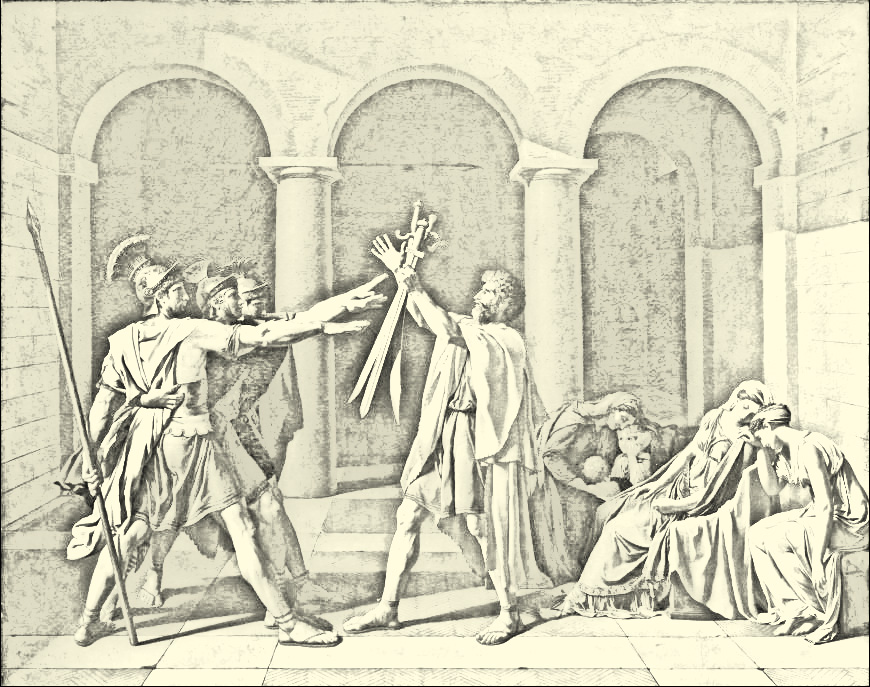
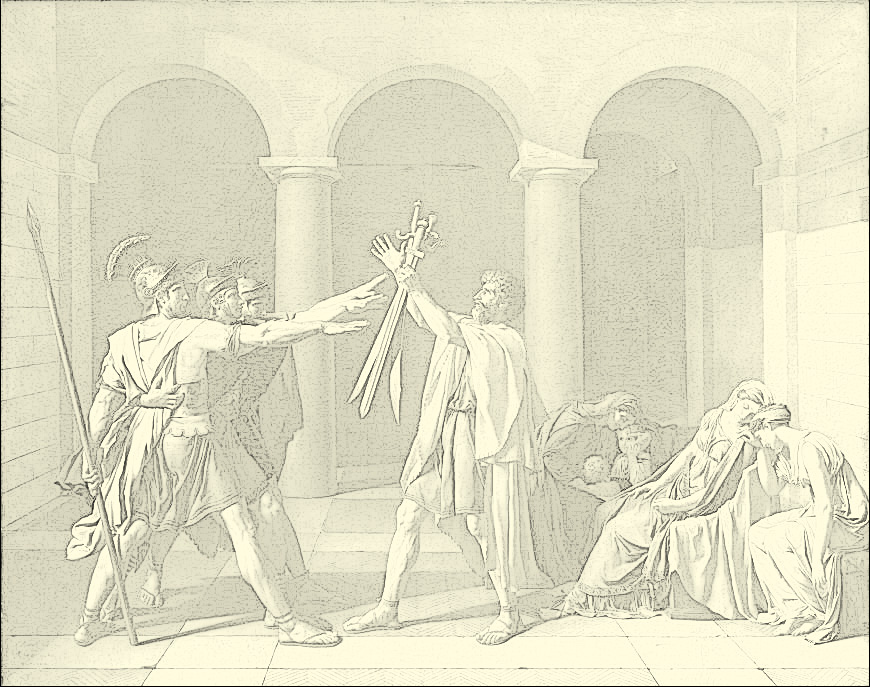
classisicism done

diff --git a/project-3/france.html b/project-3/france.html
@@ -48,7 +48,43 @@
         <!-- <button id="closeButton">Close</button> -->
         <div class="img-container">
             <div class="france img-div">
-                <img id="france-6" class="painting painting-vertical" src="./img/rococo-clear.jpg" alt="france-3">
+                <img id="classic" class="painting painting-vertical" src="./img/classic-sketch.jpg" alt="france-3">
+
+                <div class="plaque">
+                    <h3 class="painting-title">Portrait of Louis XIV in Coronation Robes</h3>
+                    <p>Hyacinthe Rigaud</p>
+                    <button onclick="openQuiz('classic-content')" class="test-trigger">
+                        <i class="fa-solid fa-eye"></i> Reveal</button>
+
+                </div>
+            </div>
+
+            <div class="info-plaque-container" id="classic-plaque">
+
+                <div class="info-plaque">
+
+                    <h4>
+                        French Classicism
+                    </h4>
+
+                    <p class="plaque-text">
+                        Mid 1600s - Early 1700s
+                    </p>
+
+                    <p class="plaque-text">
+                        Much like the rest of Europe, French Classicism was deeply influenced by the principles of order and reason derived from ancient Greek and Roman art.
+                    </p>
+
+                    <p class="plaque-text">
+                        However, the French Classicism period was unique compared to the rest of Europe because the arts were heavily utilized to glorify King Louis XIV, the Sun King. Under his rule, France saw the centralization of power, the establishment of absolute monarchy, and the consolidation of French cultural influence in Europe.
+                    </p>
+
+                    <p class="plaque-text">
+                        Another notable aspect of this time frame was the French Salons, a social gathering where a guests discussed not only art, but also literature, philosophy, music, and politics. The democratization of ideas set the roots for the Age of Enlightment, and would set up France as an intellectual powerhouse in Europe.
+                    </p>
+
+                </div>
+
             </div>
 
             <div class="france img-div">
@@ -69,7 +105,7 @@
                 <div class="info-plaque">
 
                     <h4>
-                        The Rococo Period
+                        Rococo
                     </h4>
 
                     <p class="plaque-text">
@@ -77,8 +113,8 @@
                     </p>
 
                     <p class="plaque-text">
-                        The French Rococo period emerged after the Baroque era, known for its ornate and playful
-                        aesthetic, mirroring France's period of peace and prosperity.
+                        The Rococo period emerged as a reponse to the Classicism era, known for its ornate and playful
+                        aesthetic compared to Classicism's focus on reason, mirroring France's frivolous spending by the aristocracy. 
                     </p>
 
                     <p class="plaque-text">
@@ -86,8 +122,7 @@
                         This era revolved around the aristocracy, who moved from Versailles to Paris, embracing leisure
                         and indulging in romantic intrigues, creating a culture of luxury and excess. This contrasted
                         sharply with the majority of French society, as the aristocracy, a small fraction of the
-                        population, owned 90% the country's wealth. Resentment from the common people grew, sowing the
-                        seeds for a revolution.
+                        population, owned 90% the country's wealth. 
 
                     </p>
 
@@ -108,7 +143,8 @@
                 <div class="plaque">
                     <h3>Oath of the Horatii</h3>
                     <p>Jacques-Louis David</p>
-                    <button class="read">Read More</button>
+                    <button onclick="openQuiz('neo-content')" class="test-trigger">
+                        <i class="fa-solid fa-eye"></i> Reveal</button>
 
                 </div>
 
@@ -163,7 +199,7 @@
             <!-- <div class="">
 
             </div> -->
-            <button class="tablinks" onclick="openQuestion('classic-content')">Q1. Neoclassicism</button>
+            <button class="tablinks" onclick="openQuestion('classic-content')">Q1. Classicism</button>
             <button class="tablinks" onclick="openQuestion('rococo-content')">Q2. Rococo</button>
             <button class="tablinks" onclick="openQuestion('neo-content')">Q3. Neoclassicism</button>
             <button class="tablinks" onclick="openQuestion('roman-content')">Q4. Romanticism</button>
@@ -178,29 +214,30 @@
 
                 <h5 class="caption">Classicism</h5>
 
-                <h3 class="fra-question">Classicism Question</h3>
+                <h3 class="fra-question">
+                    Although similar to other European countries, how did French Classicism differ from the rest of Europe?</h3>
 
                 <div class="fra-question-options">
 
                     <!-- A -->
                     <div class="q-a">
-                        <input type="radio" id="classic-a" name="classic" value="flase" />
-                        <label for="classic-a" class="question">A. </label>
+                        <input type="radio" id="classic-a" name="classic" value="false" />
+                        <label for="classic-a" class="question">A. By promoting artistic freedom and individual expression.</label>
                     </div>
                     <!-- B -->
                     <div class="q-b">
                         <input type="radio" id="classic-b" name="classic" value="true" />
-                        <label for="classic-b" class="question">B. </label>
+                        <label for="classic-b" class="question">B. By using the principles of order and reason to glorify King Louis XIV.</label>
                     </div>
                     <!-- C -->
                     <div class="q-c">
                         <input type="radio" id="classic-c" name="classic" value="false" />
-                        <label for="classic-c" class="question">C. </label>
+                        <label for="classic-c" class="question">C. By specifically celebrating France's military involvement and accomplishments throughout Europe. </label>
                     </div>
                     <!-- D -->
                     <div class="q-d">
                         <input type="radio" id="classic-d" name="classic" value="false" />
-                        <label for="classic-d" class="question">D. </label>
+                        <label for="classic-d" class="question">D. By pionering Enlightment ideals such as liberty and freedom in their art.</label>
                     </div>
 
 

diff --git a/project-3/style.css b/project-3/style.css
@@ -39,6 +39,10 @@ p {
     line-height: 120%;
 }
 
+i {
+    margin-right: 4px;
+}
+
 /* GENERAL STYLING */
 
 .gallery {
@@ -150,8 +154,16 @@ p {
 }
 
 /* INDIVIDUAL PAINTINGS */
+#classic {
+    max-height: 80vh;
+
+}
+
 #neo {
     margin-top: 3em;
+    max-height: 70vh;
+    width: 45vw;
+    
 }
 
 .timeline {

diff --git a/project-3/scripts/france.js b/project-3/scripts/france.js
@@ -30,7 +30,7 @@ function openQuiz(movement) {
 }
 
 $("#btn-france-quiz").click(function() {
-    openQuiz("rococo-content")
+    openQuiz("classic-content")
 });
 
 
